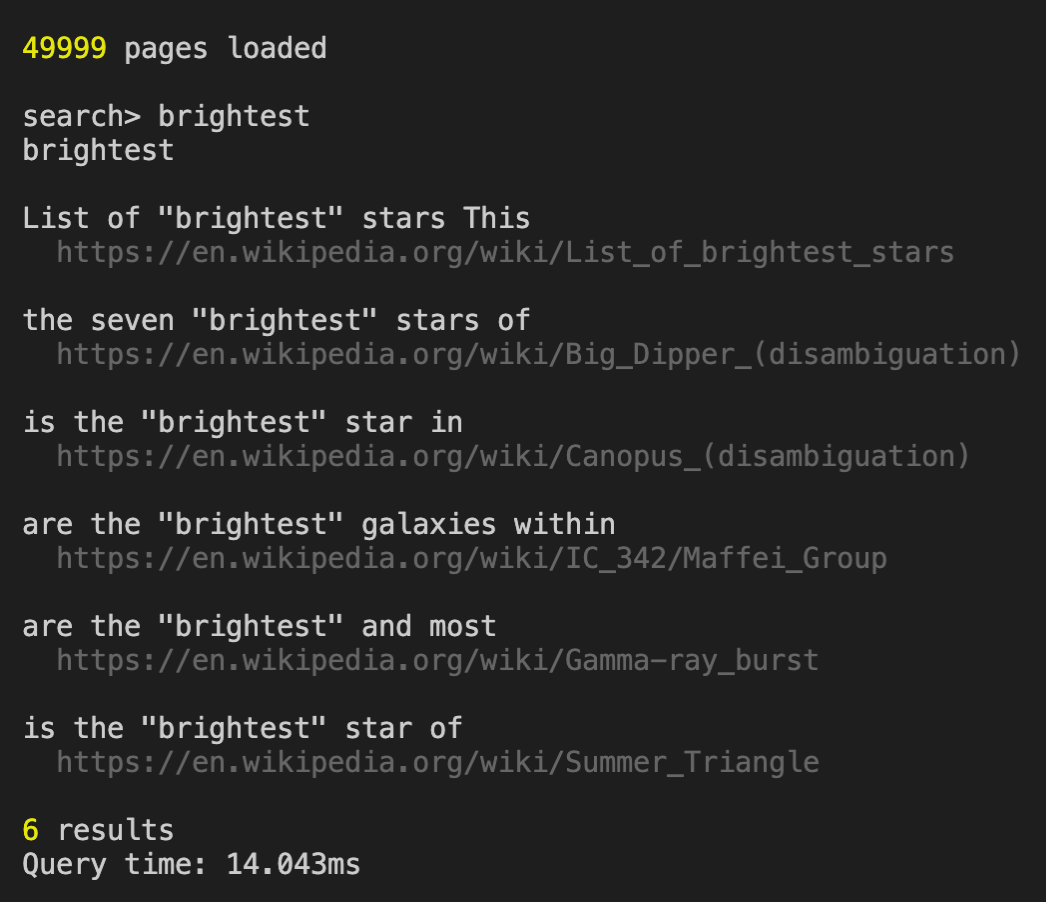
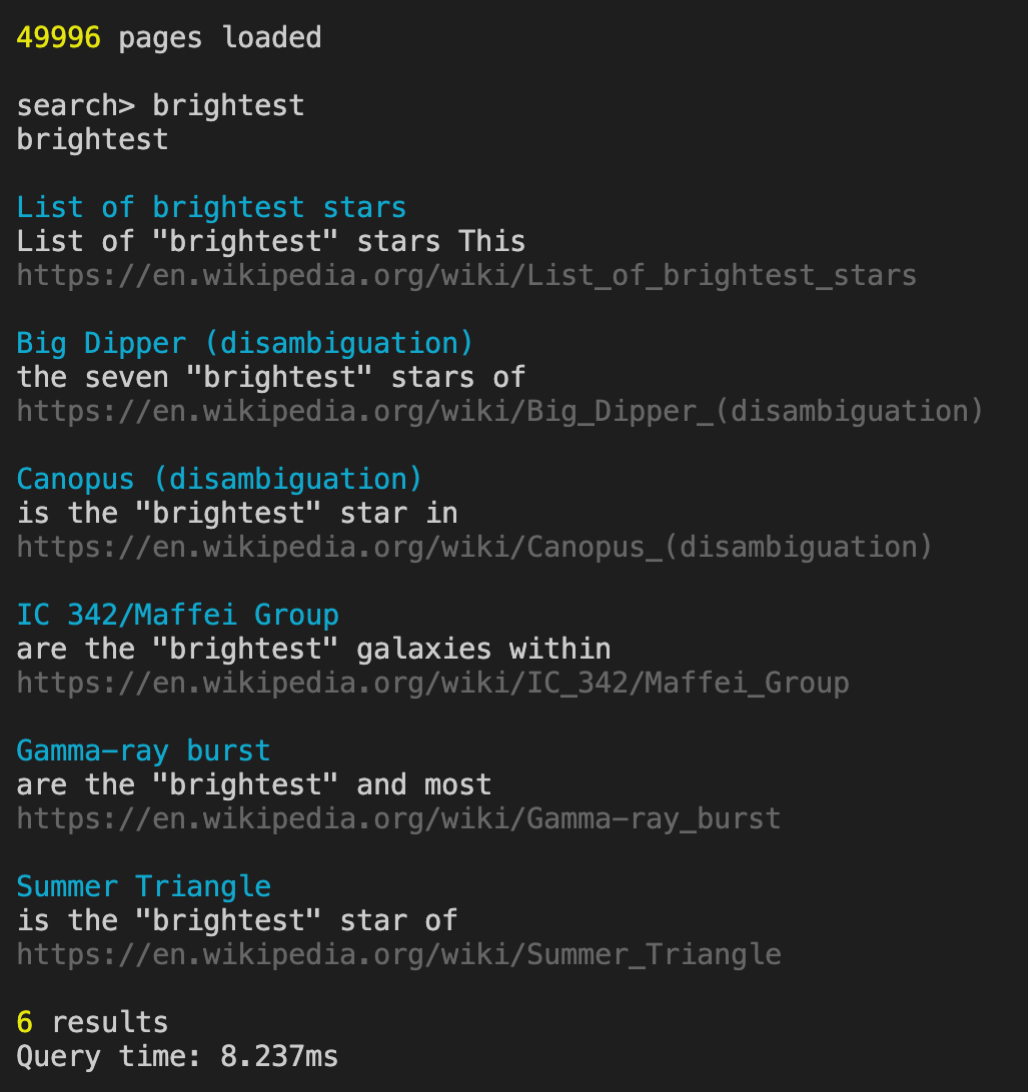
Working linked list. Updated readme.

Changed region(s): [[0.0, 0.0, 0.965, 0.4035], [0.0, 0.6829, 0.7782, 0.9933], [0.0, 0.4346, 0.9339, 0.6519]]

diff --git a/src/hash.ts b/src/hash.ts
@@ -85,6 +85,10 @@ export class Hash {
     const fd = await this.getFileDescriptor();
 
     let { tailOffset } = await this.get(key);
+    if (tailOffset < this.headerSize + this.hashRows * this.hashRowSize)
+      throw new Error(
+        `tailoffset ${tailOffset} for ${key} is in hash index area, not allowed`
+      );
     const { hashIndex } = await this.getHashEntryMatchingKey(key);
     const hashOffset = this.getHashOffset(hashIndex);
 
@@ -96,7 +100,6 @@ export class Hash {
         const nextNodeOffset = await this.getFreeNodeOffset();
         await this.writeFreeNodeOffset(nextNodeOffset + this.nodeSize);
         const nextNodeOffsetBuf = Buffer.from(this.toBEInt32(nextNodeOffset));
-
         const dataAndNext = Buffer.concat([buf, nextNodeOffsetBuf]);
 
         // write node
@@ -169,6 +172,7 @@ export class Hash {
       hashEntry = await this.getHashEntryByIndex(hashIndex);
       headOffset = hashEntry.readUInt32BE(this.keySize);
       tailOffset = hashEntry.readUInt32BE(this.keySize + 4);
+
       if (headOffset > 0) {
         const hashEntryContainsKey = await this.hashEntryContainsData(
           hashEntry,
@@ -177,11 +181,11 @@ export class Hash {
         if (!hashEntryContainsKey) {
           hashIndex += (collisions + 1) ** 2;
           hashIndex %= this.hashRows;
-          if (hashIndex > this.hashRows) throw new Error('Out of bounds');
           checkNextEntry = true;
         } else checkNextEntry = false;
       } else checkNextEntry = false;
     } while (checkNextEntry);
+    if (tailOffset === 0) tailOffset = headOffset;
     return { hashIndex, headOffset, tailOffset };
   }
 
@@ -276,7 +280,8 @@ export class Hash {
   private async getFreeNodeOffset() {
     const buf = Buffer.alloc(4);
     await fs.read(await this.getFileDescriptor(), buf, 0, buf.length, 0);
-    return buf.readUInt32BE();
+    const offset = buf.readUInt32BE();
+    return offset;
   }
 
   private getHashIndexFromKey(key: string) {

diff --git a/src/binary-file-storage.ts b/src/binary-file-storage.ts
@@ -18,7 +18,7 @@ export class BinaryFileStorage implements Storage {
   async *getWordIterator(word: string): AsyncIterableIterator<number> {
     if (!(await this.hash.has(word))) return;
 
-    for await (const { buffer } of this.hash.getIterator(word)) {
+    for await (const { buffer, offset } of this.hash.getIterator(word)) {
       let i = 0;
       let siteId: number;
       do {

diff --git a/src/demo.ts b/src/demo.ts
@@ -71,7 +71,7 @@ let skipped = 0;
 
 (async () => {
   try {
-    await fs.remove(dir);
+    // await fs.remove(dir);
 
     if (false || !(await fs.pathExists(dir))) {
       if (!fs.existsSync(dir)) {

diff --git a/README.md b/README.md
@@ -13,11 +13,13 @@ Example:
 ```typescript
 engine = new Engine();
 engine.add({
+  title: 'Jupiter',
   text:
     'Jupiter is the fifth planet from the Sun and the largest in the Solar System. It is a gas giant with a mass one-thousandth that of the Sun, but two-and-a-half times that of all the other planets in the Solar System combined. Jupiter is one of the brightest objects visible to the naked eye in the night sky, and has been known to ancient civilizations since before recorded history. It is named after the Roman god Jupiter.[18] When viewed from Earth, Jupiter can be bright enough for its reflected light to cast visible shadows,[19] and is on average the third-brightest natural object in the night sky after the Moon and Venus.',
   url: 'https://en.wikipedia.org/wiki/Jupiter',
 });
 engine.add({
+  title: 'Saturn',
   text:
     'Saturn is the sixth planet from the Sun and the second-largest in the Solar System, after Jupiter. It is a gas giant with an average radius of about nine times that of Earth.[18][19] It only has one-eighth the average density of Earth; however, with its larger volume, Saturn is over 95 times more massive.[20][21][22] Saturn is named after the Roman god of wealth and agriculture; its astronomical symbol (♄) represents the god´s sickle.',
   url: 'https://en.wikipedia.org/wiki/Saturn',
@@ -57,7 +59,6 @@ engine.search('"from the Sun" Moon');
 ## Benchmark
 
 - 50000 [wikipedia abstracts](https://dumps.wikimedia.org/enwiki/latest/enwiki-latest-abstract.xml.gz) added to index
-- 121295 words loaded (no stop words)
 - Tested on 2018 MacBook Pro.
 
 Test command: npm run demo
@@ -71,26 +72,31 @@ Result in 3.850ms
 ```js
 [
   {
+    title: 'Affection',
     ingress:
       'branches of "philosophy" and psychology ... philosophy and "psychology" concerning emotion',
     url: 'https://en.wikipedia.org/wiki/Affection',
   },
   {
+    title: 'Autonomy',
     ingress:
       'In developmental "psychology" and moral ... and bioethical "philosophy" autonomy from',
     url: 'https://en.wikipedia.org/wiki/Autonomy',
   },
   {
+    title: 'Social Studies',
     ingress:
       'such as "philosophy" and psychology ... philosophy and "psychology"',
     url: 'https://en.wikipedia.org/wiki/Social_studies',
   },
   {
+    title: 'Johannes Jacobus Poortman',
     ingress:
       'Hague studied "philosophy" and psychology ... philosophy and "psychology" at Groningen',
     url: 'https://en.wikipedia.org/wiki/Johannes_Jacobus_Poortman',
   },
   {
+    title: 'Suffering',
     ingress:
       'Encyclopedia of "Philosophy" which begins ... in moral "psychology" ethical theory',
     url: 'https://en.wikipedia.org/wiki/Suffering',
@@ -107,16 +113,19 @@ Result in 6.177ms
 ```js
 [
   {
+    title: 'Number Theory',
     ingress:
       'valued functions "German" mathematician Carl ... German mathematician "Carl Friedrich" Gauss 1777',
     url: 'https://en.wikipedia.org/wiki/Number_theory',
   },
   {
+    title: 'Karl Friedrich Bahrdt',
     ingress:
       'also spelled "Carl Friedrich" Bahrdt was ... an unorthodox "German" Protestant biblical ... characters in "German" learning',
     url: 'https://en.wikipedia.org/wiki/Karl_Friedrich_Bahrdt',
   },
   {
+    title: 'Franz Passow',
     ingress:
       'Franz Ludwig "Carl Friedrich" Passow September ... was a "German" classical scholar',
     url: 'https://en.wikipedia.org/wiki/Franz_Passow',
@@ -138,4 +147,4 @@ Result in 6.177ms
 - [x] Store index as files
 - [x] Store index as binary
   - [x] Handle collisions
-- [ ] Change storage for words to linked list for easier insert based on rank
+- [x] Change storage for words to linked list for easier insert based on rank
